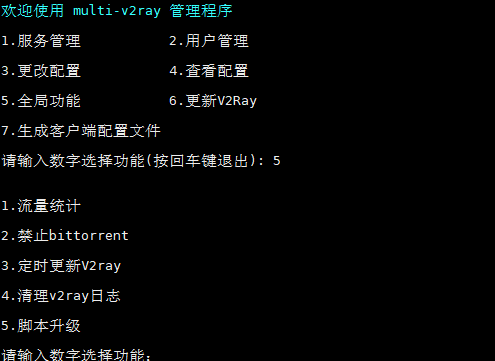
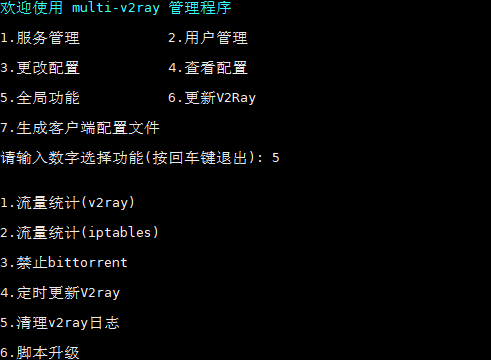
update version

diff --git a/global_setting/iptables_ctr.py b/global_setting/iptables_ctr.py
@@ -16,7 +16,7 @@ while True:
     print("")
     print("1.查看流量统计\n")
     print("2.重置流量统计\n")
-    print("tip: 默认v2端口自动开启iptables的流量统计, 重启vps会全部重置!!!\n")
+    print("tip: 默认v2端口自动开启iptables的流量统计\n")
 
     choice = input("请输入数字选择功能：")
     if choice == "1":

diff --git a/README.md b/README.md
@@ -99,7 +99,7 @@ source <(curl -sL https://git.io/fNgqx) --remove
    v2ray tls                  修改tls
    v2ray tfo                  修改tcpFastOpen
    v2ray stream               修改传输协议
-   v2ray stats                流量统计
+   v2ray stats                iptables流量统计
    v2ray clean                清理日志
 ```
 更多命令行参数请参考 [multi-v2ray wiki](https://github.com/Jrohy/multi-v2ray/wiki)
